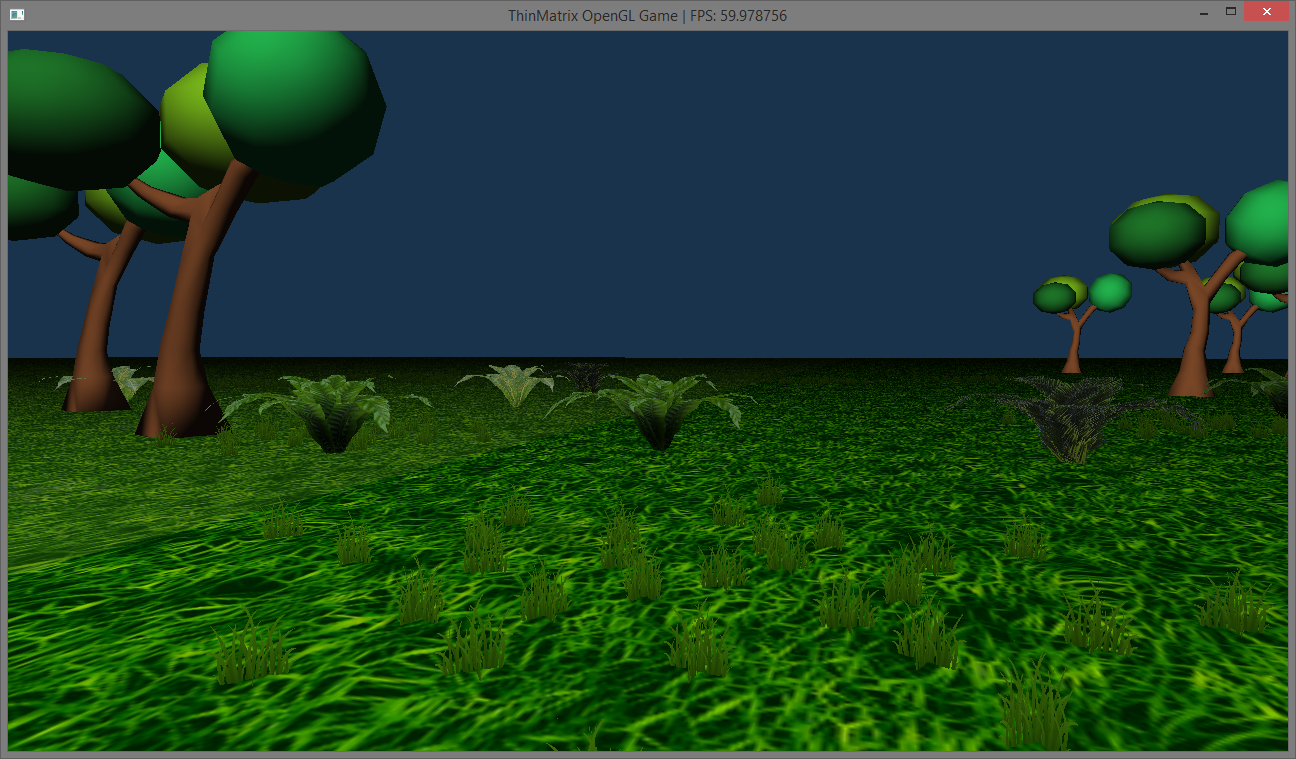
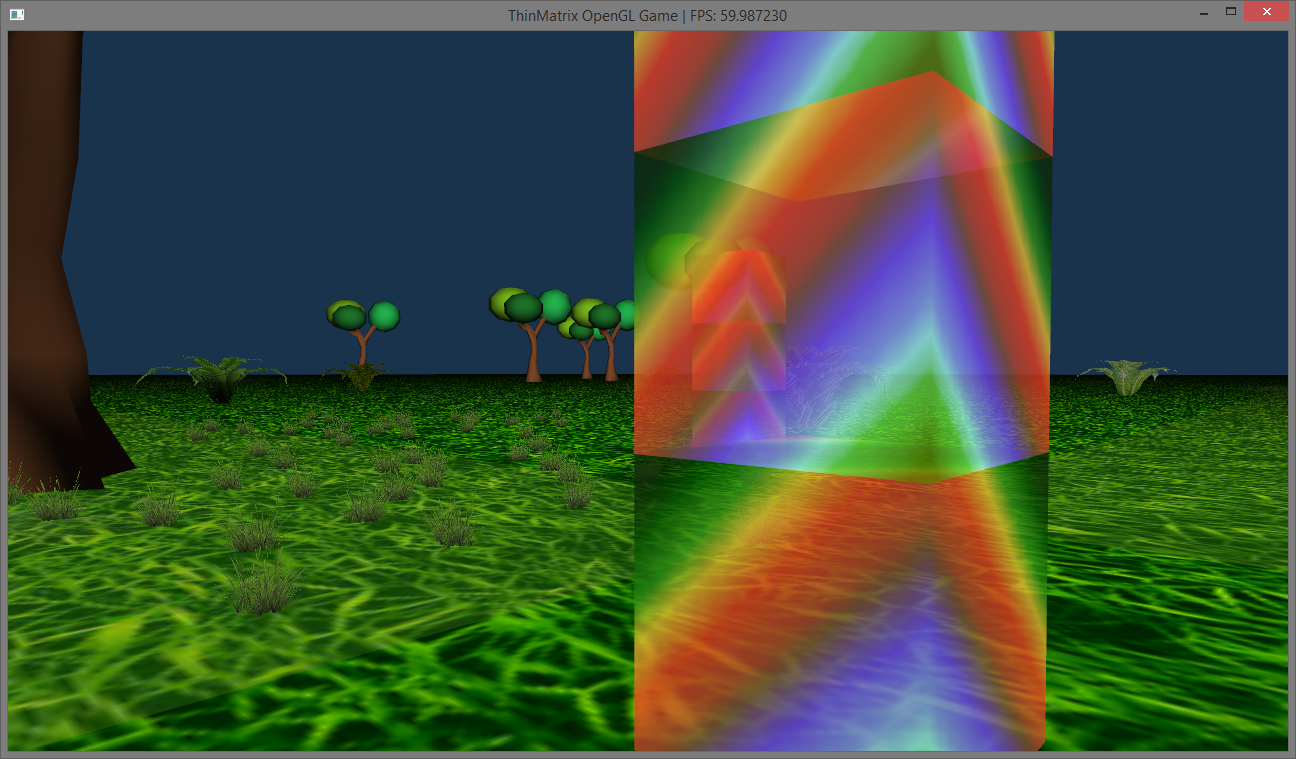
AA and real-ish transparency

diff --git a/OpenGL 3D Game Tutorial - ThinMatrix/Engine/GameManager.cpp b/OpenGL 3D Game Tutorial - ThinMatrix/Engine/GameManager.cpp
@@ -94,6 +94,20 @@ void GameManager::Start()
 		entities.push_back(Entity(i < 5 ? tmFern1 : i < 10 ? tmFern2 : i < 15 ? tmFern3 : tmFern4, glm::vec3(x, 0, z), glm::vec3(0, 0, 0), glm::vec3(1, 1, 1)));
 	}
 
+	RawModel mCube = OBJLoader::LoadObjModel("cube", loader);
+	ModelTexture mtCube(loader.LoadTexture("cube"), false, true);
+	TexturedModel tmCube(mCube, mtCube, true);
+	entities.push_back(Entity(tmCube, glm::vec3(-8, 1, 4), glm::vec3(0, 0, 0), glm::vec3(1, 1, 1)));
+	entities.push_back(Entity(tmCube, glm::vec3(-8, 3, 4), glm::vec3(0, 0, 0), glm::vec3(1, 1, 1)));
+	entities.push_back(Entity(tmCube, glm::vec3(-8, 5, 4), glm::vec3(0, 0, 0), glm::vec3(1, 1, 1)));
+
+	entities.push_back(Entity(tmCube, glm::vec3(13, 1, 18), glm::vec3(0, 0, 0), glm::vec3(1, 1, 1)));
+	entities.push_back(Entity(tmCube, glm::vec3(13, 3, 18), glm::vec3(0, 0, 0), glm::vec3(1, 1, 1)));
+	entities.push_back(Entity(tmCube, glm::vec3(13, 5, 18), glm::vec3(0, 0, 0), glm::vec3(1, 1, 1)));
+
+	entities.push_back(Entity(tmCube, glm::vec3(6, 1, -7), glm::vec3(0, 0, 0), glm::vec3(1, 1, 1)));
+	entities.push_back(Entity(tmCube, glm::vec3(6, 3, -7), glm::vec3(0, 0, 0), glm::vec3(1, 1, 1)));
+	entities.push_back(Entity(tmCube, glm::vec3(6, 5, -7), glm::vec3(0, 0, 0), glm::vec3(1, 1, 1)));
 
 	std::vector<Terrain> terrains;
 	terrains.push_back(Terrain(-1, 0, loader, ModelTexture(loader.LoadTexture("grassy3", true))));
@@ -116,7 +130,7 @@ void GameManager::Start()
 		for (Entity& e : entities)
 			renderer.ProcessEntity(e);
 
-		renderer.Render(light, camera.GetViewMatrix());
+		renderer.Render(light, camera);
 
 		m_displayManager->UpdateDisplay();
 		m_displayManager->ShowUPS();

diff --git a/OpenGL 3D Game Tutorial - ThinMatrix/RenderEngine/MasterRenderer.cpp b/OpenGL 3D Game Tutorial - ThinMatrix/RenderEngine/MasterRenderer.cpp
@@ -13,6 +13,11 @@ MasterRenderer::MasterRenderer(float aspectRatio)
 	glEnable(GL_DEPTH_TEST);
 	// Set clear color and clear the screen
 	glClearColor(0.1f, 0.2f, 0.3f, 1.0f);
+	// Enable alpha blend
+	glEnable(GL_BLEND);
+	glBlendFunc(GL_SRC_ALPHA, GL_ONE_MINUS_SRC_ALPHA);
+	// Enable Antialiasing
+	glEnable(GL_MULTISAMPLE);
 }
 
 
@@ -21,7 +26,7 @@ MasterRenderer::~MasterRenderer()
 }
 
 
-void MasterRenderer::Render(Light& light, glm::mat4& cameraViewMatrix)
+void MasterRenderer::Render(Light& light, FPSCamera camera)
 {
 	// Clear buffers and activate the shader
 	glClear(GL_COLOR_BUFFER_BIT | GL_DEPTH_BUFFER_BIT);
@@ -29,7 +34,7 @@ void MasterRenderer::Render(Light& light, glm::mat4& cameraViewMatrix)
 	// Load terrain shader parameters and render terrains
 	m_terrainShader.Use();
 	m_terrainShader.LoadLight(light, 0.1f);
-	m_terrainShader.LoadViewMatrix(cameraViewMatrix);
+	m_terrainShader.LoadViewMatrix(camera.GetViewMatrix());
 	m_terrainRenderer.Render(terrains);
 	m_terrainShader.UnUse();
 	terrains.clear();
@@ -37,8 +42,8 @@ void MasterRenderer::Render(Light& light, glm::mat4& cameraViewMatrix)
 	// Load basic shader parameters and render entities
 	m_basicShader.Use();
 	m_basicShader.LoadLight(light, 0.1f);
-	m_basicShader.LoadViewMatrix(cameraViewMatrix);
-	m_entityRenderer.Render(m_entities);
+	m_basicShader.LoadViewMatrix(camera.GetViewMatrix());
+	m_entityRenderer.Render(m_entities, camera.GetPosition());
 	m_basicShader.UnUse();
 	m_entities.clear();
 }

diff --git a/OpenGL 3D Game Tutorial - ThinMatrix/RenderEngine/EntityRenderer.cpp b/OpenGL 3D Game Tutorial - ThinMatrix/RenderEngine/EntityRenderer.cpp
@@ -17,16 +17,37 @@ EntityRenderer::~EntityRenderer()
 {
 }
 
-
-void EntityRenderer::Render(std::map<TexturedModel, std::vector<Entity>, tmCompare>& entities)
+#include <iostream>
+void EntityRenderer::Render(std::map<TexturedModel, std::vector<Entity>, tmCompare>& entities, glm::vec3 cameraPos)
 {
+	std::multimap<float, Entity> transparentEntities;
+
 	// Loop through the keys
+	// key.first = Textured model, key.second = entities vector
 	for (auto &key : entities)
 	{
-		// key.first = Textured model, key.second = entities vector
+		// If TexturedModel needs alpha blend (example: a windows glass), Save it for rendering last
+		if (key.first.GetBlendAlpha())
+		{
+			for (Entity e : key.second)
+			{
+				// They need to be orded by distance, so we add them to the map by distance from the camera
+				float distance = glm::length(cameraPos - e.GetPosition());
+				transparentEntities.insert(std::make_pair(distance, e));
+			}
+			continue;
+		}
 		BindTexturedModel(key.first);
 		for (Entity entity : key.second)
 			RenderEntity(entity);
+		UnbindTexturedModel();
+	}
+
+	// They need to be draw from farthest to nearest, so we draw them in reverse order by distance
+	for (std::map<float, Entity>::reverse_iterator it = transparentEntities.rbegin(); it != transparentEntities.rend(); ++it)
+	{
+		BindTexturedModel(it->second.GetModel());
+		RenderEntity(it->second);
 		UnbindTexturedModel();
 	}
 }

diff --git a/OpenGL 3D Game Tutorial - ThinMatrix/Models/TexturedModel.h b/OpenGL 3D Game Tutorial - ThinMatrix/Models/TexturedModel.h
@@ -7,13 +7,16 @@
 class TexturedModel
 {
 public:
-	TexturedModel(RawModel& model, ModelTexture& texture) : m_rawModel(model), m_texture(texture) {}
+	TexturedModel(RawModel& model, ModelTexture& texture, bool blendAlpha = false)
+		: m_rawModel(model), m_texture(texture), m_blendAlpha(blendAlpha) {}
 
 	inline RawModel GetRawModel() const { return m_rawModel; }
 	inline ModelTexture GetModelTexture() const { return m_texture; }
+	inline bool GetBlendAlpha() const { return m_blendAlpha; }
 private:
 	RawModel m_rawModel;
 	ModelTexture m_texture;
+	bool m_blendAlpha;
 };
 
 #endif // TEXTUREDMODEL_H

diff --git a/OpenGL 3D Game Tutorial - ThinMatrix/RenderEngine/DisplayManager.cpp b/OpenGL 3D Game Tutorial - ThinMatrix/RenderEngine/DisplayManager.cpp
@@ -11,6 +11,8 @@ DisplayManager::DisplayManager(int width, int height, const std::string& title)
 	glfwWindowHint(GLFW_CONTEXT_VERSION_MINOR, 3);
 	glfwWindowHint(GLFW_OPENGL_FORWARD_COMPAT, GL_FALSE);
 	glfwWindowHint(GLFW_OPENGL_PROFILE, GLFW_OPENGL_CORE_PROFILE);
+	// Needed to enable multisampling
+	glfwWindowHint(GLFW_SAMPLES, 4);
 
 	// Create OpenGL window using GLFW
 	m_window = glfwCreateWindow(width, height, title.c_str(), NULL, NULL);

diff --git a/OpenGL 3D Game Tutorial - ThinMatrix/RenderEngine/MasterRenderer.h b/OpenGL 3D Game Tutorial - ThinMatrix/RenderEngine/MasterRenderer.h
@@ -3,6 +3,7 @@
 
 #include "EntityRenderer.h"
 #include "TerrainRenderer.h"
+#include "../Entities/FPSCamera.h"
 
 class MasterRenderer
 {
@@ -10,7 +11,7 @@ public:
 	MasterRenderer(float aspectRatio);
 	virtual ~MasterRenderer();
 
-	void Render(Light& light, glm::mat4& cameraViewMatrix);
+	void Render(Light& light, FPSCamera camera);
 	void ProcessTerrain(Terrain& terrain);
 	void ProcessEntity(Entity& entity);
 private:

diff --git a/OpenGL 3D Game Tutorial - ThinMatrix/RenderEngine/EntityRenderer.h b/OpenGL 3D Game Tutorial - ThinMatrix/RenderEngine/EntityRenderer.h
@@ -25,7 +25,7 @@ public:
 	EntityRenderer(BasicShader& shader, glm::mat4& projectionMatrix);
 	virtual ~EntityRenderer();
 
-	void Render(tMap& entities);
+	void Render(tMap& entities, glm::vec3 cameraPos);
 private:
 	BasicShader& m_shader;
 	void BindTexturedModel(TexturedModel texturedModel);
